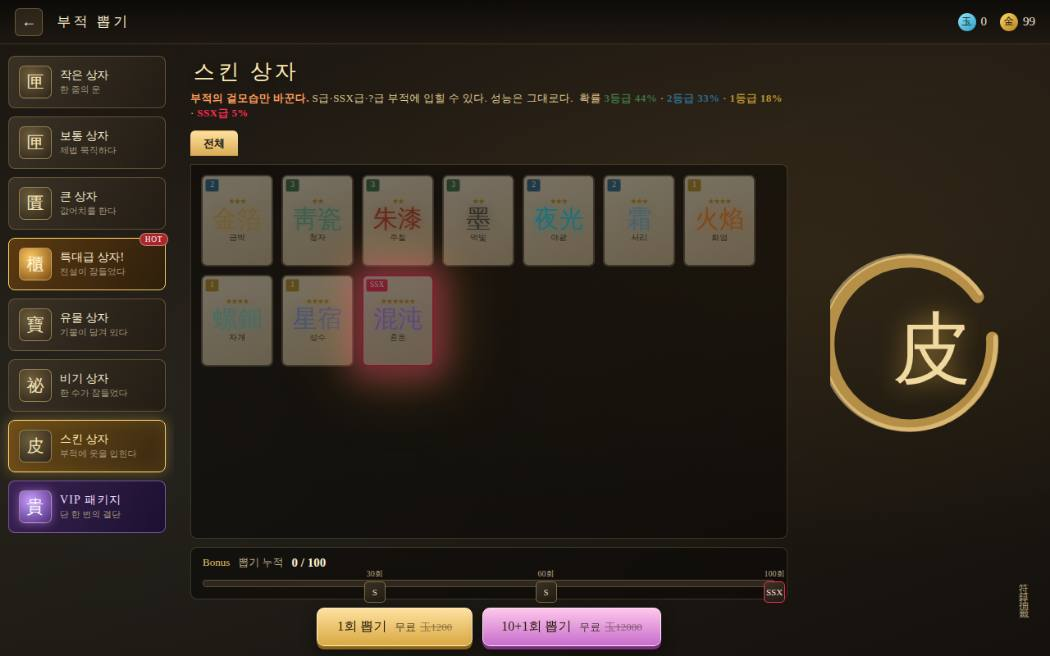
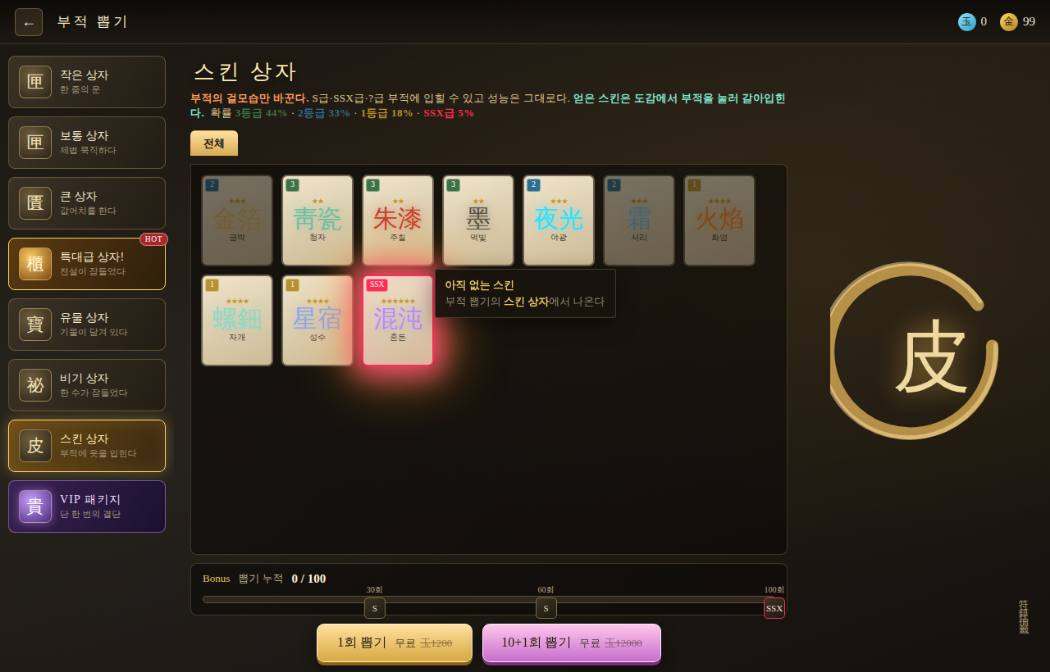
스킨 소유를 눈에 보이게 하고 잠금을 세 겹으로
- 옷 갈아입히기 창이 이제 열 벌을 전부 보여 준다.
  가지지 않은 것은 흐린 점선에 ??? 로 잠겨 있고, 눌러도 입혀지지 않는다.
  무엇이 남았는지 한눈에 보이고, 가진 것과 헷갈릴 일이 없다.
- equipSkin 이 소유와 등급을 직접 확인하고 거부한다.
  카드를 그리는 skinOf 도 한 번 더 본다. 어느 길로 들어와도 막힌다.
- 스킨 상자 안내와 뽑은 결과 문구에
  '도감에서 부적을 눌러 갈아입힌다'를 적어 두었다.

검증: 새 저장소에서 열한 칸 중 기본 하나만 열리고 나머지는 잠김,
전부 눌러도 기본 그대로. 한 벌을 얻으면 그 한 칸만 열림.

Claude-Session: https://claude.ai/code/session_01UzTAojGkVWbp5UXRCRkS2k

diff --git a/game/index.html b/game/index.html
@@ -1119,7 +1119,10 @@ button{font-family:inherit;color:inherit;cursor:pointer;border:none;background:n
 .skintile b{display:block;font-weight:400;font-size:12.5px;color:#f0e6cd;letter-spacing:.04em}
 .skintile small{display:block;font-size:10.5px;margin-top:2px}
 .skintile.plain .sh{text-shadow:none}
-.skinnone{color:#9a8d74;font-size:12.5px;padding:14px}
+.skintile.lock{opacity:.42;cursor:not-allowed;border-style:dashed}
+.skintile.lock:hover{transform:none;border-color:#6d6250}
+.skintile.lock .sh{border-color:#6b6053;color:#6b6053;text-shadow:none;background:rgba(0,0,0,.3)}
+.skinnone{color:#9a8d74;font-size:12.5px;padding:14px;width:100%;text-align:center}
 .dextile.skintileD b{font-size:26px}
 
 /* ══ 저주의 서당 ═════════════════════════════════════════ */
@@ -6895,9 +6898,12 @@ function gainSkin(id, silent) {
   return META.skins.own[id] === 1;
 }
 function equipSkin(cardId, skinId) {
-  if (!META.skins) return;
+  if (!META.skins) return false;
+  if (skinId && !ownSkin(skinId)) return false;      /* 없는 옷은 입지 못한다 */
+  if (skinId && !skinnable(cardId)) return false;    /* S급 아래에는 입히지 않는다 */
   if (skinId) META.skins.eq[cardId] = skinId; else delete META.skins.eq[cardId];
   saveMeta();
+  return true;
 }
 function skinCount() { return Object.keys(META.skins ? META.skins.own : {}).length; }
 /* 스킨 상자에서 하나 */
@@ -6910,7 +6916,8 @@ function skinLoot() {
   const dup = ownSkin(id);
   return { g: d.h, n: d.n + ' 스킨', grade: d.rar, skin: id,
     d: dup ? `<b style="color:${d.c}">이미 가진 스킨</b> — 다이아 200으로 바꿔 준다`
-           : `<b style="color:${d.c}">${GRADE[d.rar].n} 스킨</b> — ` + d.d,
+           : `<b style="color:${d.c}">${GRADE[d.rar].n} 스킨</b> — ` + d.d +
+             ` <b style="color:#7fe6cf">· 도감에서 부적을 눌러 갈아입힌다</b>`,
     take: () => { if (dup) { G.run.dia = (G.run.dia || 0) + 200; } else gainSkin(id, true); } };
 }
 /* 스킨 고르는 창 — 도감의 부적 상세에서 연다 */
@@ -6932,18 +6939,27 @@ function showSkinPicker(cardId, after) {
   };
   const addTile = (id) => {
     const sd = id ? SKINS[id] : null;
-    const t = el('div', 'skintile' + (id ? '' : ' plain'),
-      id ? `<div class="sh" style="--sc2:${sd.c}">${sd.h}</div><b>${sd.n}</b>
-            <small style="color:${GRADE[sd.rar].c}">${GRADE[sd.rar].n}</small>`
+    const has = !id || ownSkin(id);
+    const t = el('div', 'skintile' + (id ? '' : ' plain') + (has ? '' : ' lock'),
+      id ? `<div class="sh" style="--sc2:${has ? sd.c : '#6b6053'}">${has ? sd.h : '?'}</div>
+            <b>${has ? sd.n : '???'}</b>
+            <small style="color:${has ? GRADE[sd.rar].c : '#7a7263'}">${has ? GRADE[sd.rar].n : '없음'}</small>`
          : `<div class="sh" style="--sc2:#8a7f68">素</div><b>기본</b><small>본디 모습</small>`);
     t.dataset.sk = id || '';
-    if (id) bindTip(t, () => `<b style="color:${sd.c}">${sd.n} (${sd.h})</b><br>${sd.d}`);
-    t.onclick = () => { equipSkin(cardId, id); SND.ui(); draw(); if (after) after(); };
+    if (id) bindTip(t, () => has
+      ? `<b style="color:${sd.c}">${sd.n} (${sd.h})</b> · ${GRADE[sd.rar].n} 스킨<br>${sd.d}`
+      : `<b>아직 없는 스킨</b><br><span style="color:#9a8d74">부적 뽑기의 <b>스킨 상자</b>에서 나온다</span>`);
+    t.onclick = () => {
+      if (!has) { SND.err(); toast('아직 없는 스킨이다 — 뽑기의 스킨 상자에서 나온다'); return; }
+      if (!equipSkin(cardId, id)) { SND.err(); return; }
+      SND.ui(); draw(); if (after) after();
+    };
     row.appendChild(t);
   };
   addTile(null);
-  for (const id of owned) addTile(id);
-  if (!owned.length) row.appendChild(el('div', 'skinnone', '아직 가진 스킨이 없다 · 뽑기의 <b>스킨 상자</b>에서 나온다'));
+  for (const id of ALL_SKINS) addTile(id);
+  if (!owned.length) row.appendChild(el('div', 'skinnone',
+    '아직 가진 스킨이 없다 · 부적 뽑기(匣)의 <b>스킨 상자</b>에서 나온다'));
   draw();
   p.querySelector('#sk_close').onclick = closeTop;
 }
@@ -6985,7 +7001,8 @@ const BANNERS = [
   { n: '비기 상자',     g: '祕', sub: '한 수가 잠들었다',  price: 1800, tier: 5, skill: true,
     desc: '<b>비기만 나온다.</b>' },
   { n: '스킨 상자',     g: '皮', sub: '부적에 옷을 입힌다', price: 1200, tier: 6, skin: true,
-    desc: '<b>부적의 겉모습만 바꾼다.</b> S급·SSX급·?급 부적에 입힐 수 있다. 성능은 그대로다.' },
+    desc: '<b>부적의 겉모습만 바꾼다.</b> S급·SSX급·?급 부적에 입힐 수 있고 성능은 그대로다. ' +
+      '<b style="color:#7fe6cf">얻은 스킨은 도감에서 부적을 눌러 갈아입힌다.</b>' },
   { n: 'VIP 패키지',    g: '貴', sub: '단 한 번의 결단',   price: 0,    tier: 9, vip: true,
     desc: '퇴마사의 격을 영원히 올린다.' }
 ];

diff --git a/game/README.md b/game/README.md
@@ -454,6 +454,11 @@ S급     신행백변   3988
 **도감 → 부적을 눌러 상세 → 옷 갈아입히기.** 고른 즉시 미리보기가 바뀌고,
 손패·덱·보상·도감 어디서 그려지든 그 옷을 입는다. 언제든 *기본*으로 되돌린다.
 
+**가지지 않은 스킨은 잠긴 채로 보인다** — 흐린 점선 테두리에 `???`.
+눌러도 입혀지지 않고, 무엇이 남았는지만 알려 준다.
+잠금은 세 겹이다. 고르는 창이 막고, `equipSkin`이 소유를 다시 확인하고,
+카드를 그리는 `skinOf`가 마지막으로 한 번 더 본다.
+
 ---
 
 ## 저주의 서당 (咀呪書堂)
